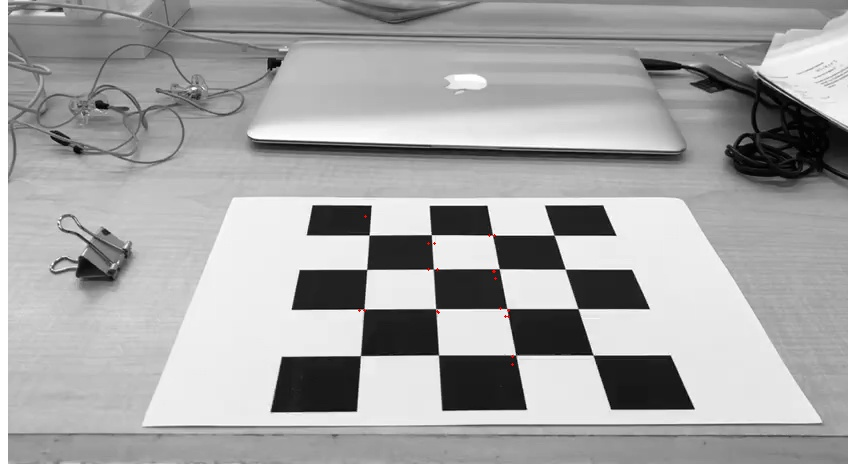
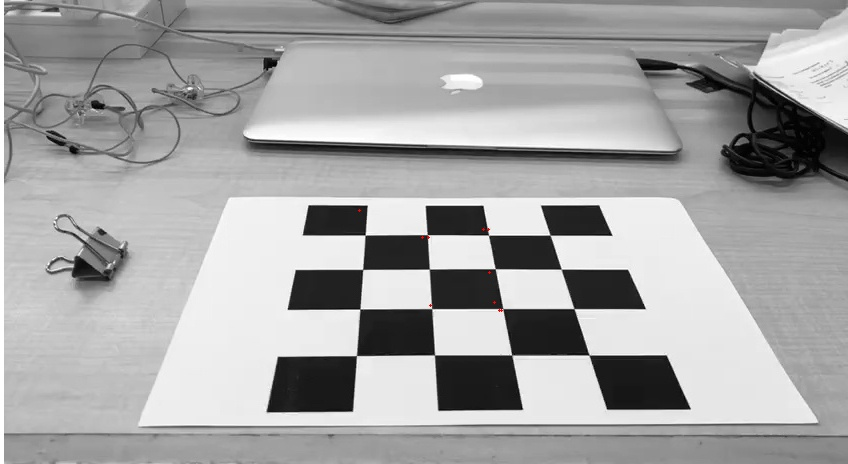
going to try to get lktracker to work

diff --git a/LKTracker.py b/LKTracker.py
@@ -8,10 +8,12 @@ from sampling import down_sample
 
 # cv2.cv.CV_CAP_PROP_FPS
 CV_CAP_PROP_FPS = 5
-NUM_FEATURES = 20
+NUM_FEATURES = 10
 DOWN_RES_LIMIT = 2*64
 WINDOW = 13
 WW = int(round(WINDOW/2))
+THRESHOLD = 0.01
+MAX_ITER = 20
 
 ## Given two images, track the features from one image to the next using LK Tracker and Pyramid
 def down_sample_feature_coords(feature):
@@ -122,21 +124,19 @@ def get_features(frame0):
     for i, x in enumerate(ex):
         y = ey[i]
         # this is correct. the Z matches for nonconv if nonconv just takes in y,x
-        # features.append((y-WW, x-WW))
+        features.append((y-WW, x-WW))
         gdZs.append(Zs[y][x])
-        # this is for conv
-        features.append((y, x))
     return features, gdZs
 
 
 def test_get_features():
-    frame = cv2.imread('test.jpg', 0)
-    features = get_features(frame)
+    frame = cv2.imread('test2.jpg', 0)
+    features, gdZs = get_features(frame)
     color_frame = cv2.cvtColor(frame, cv2.COLOR_GRAY2RGB)
     print(features)
     for y,x in features:
-        cv2.circle(color_frame, (x, y), 1, (0, 0, 255), -1)
-    cv2.imwrite('FEATURES200.jpg', color_frame)
+        cv2.circle(color_frame, (x, y), 13, (0, 0, 255), 1)
+    cv2.imwrite('FEATURES200shifted.jpg', color_frame)
 # test_get_features()
 
 
@@ -209,7 +209,8 @@ def LKTracker(frame, next_frame, frame_features, next_frame_features):
         # print(next_x_end)
         # print(next_y_start)
         # print(next_y_end)
-        next_feature_window = J[next_y_start: next_y_end, next_x_start: next_x_end]
+        # next_feature_window = J[next_y_start: next_y_end, next_x_start: next_x_end]
+        next_feature_window = J[y_start: y_end, x_start: x_end]
         # # skip the boundary cases
         if prev_feature_window.shape != (WINDOW,WINDOW) or next_feature_window.shape != (WINDOW,WINDOW): 
             result_features.append((next_y+0, next_x+0))
@@ -218,6 +219,14 @@ def LKTracker(frame, next_frame, frame_features, next_frame_features):
         window_diff = prev_feature_window - next_feature_window
         bx = sum(np.multiply(window_diff, gx[y_start: y_end, x_start: x_end]).ravel())
         by = sum(np.multiply(window_diff, gy[y_start: y_end, x_start: x_end]).ravel())
+
+        try:
+            Z_inv = np.linalg.inv(Z)
+        except:
+            print('error solving Zd = b')
+            ny, nx = 0, 0
+            result_features.append((ny, nx))
+            continue
 
         try:
             # solve for d
@@ -231,7 +240,7 @@ def LKTracker(frame, next_frame, frame_features, next_frame_features):
             dx, dy = d
             dx = int(round(dx))
             dy = int(round(dy))
-            ny, nx = (next_y-dy, next_x-dx)
+            ny, nx = (next_y+dy, next_x+dx)
             # print(d)
             if (dx,dy)!=(0,0):
                 print(dx,dy)
@@ -246,102 +255,25 @@ def LKTracker(frame, next_frame, frame_features, next_frame_features):
         result_features.append((ny, nx))
     return result_features, Zs
 
-#  Outputs the feature coords of the next frame, only small movments
-def LKTrackerConv(frame, next_frame, frame_features, next_frame_features):
-    frame = frame.astype('int16')
-    next_frame = next_frame.astype('int16')
-    rows, cols = frame.shape[:2]
-    # print(rows, cols)
-
-
-    # getting the derivatives
-    # Ix and Iy store the gx and gy (derivatives) values
-    # Ixx, Ixy and Iyy store the product of gx and gy
-    gx = copy.deepcopy(frame)
-    gy = copy.deepcopy(frame)
-    print('get gradient')
-    for row in range(rows-1):
-        for col in range(cols):
-            gx[row][col] = int(frame[row+1][col]) - int(frame[row][col])
-
-    for row in range(rows):
-        for col in range(cols-1):
-            gy[row][col] = int(frame[row][col+1]) - int(frame[row][col])
-
-    Ixx = np.multiply(gx, gx)
-    Ixy = np.multiply(gx, gy)
-    Iyy = np.multiply(gy, gy)
-
-    # get Zd = b
-    # using a window of all ones instead of gaussian for speed (and convenience)
-    window = np.ones((WINDOW, WINDOW))
-    # convolve gradients with window of interest
-    # these W matrices are used to get Z
-    Wxx = convolve2d(Ixx, window, mode='full')
-    Wxy = convolve2d(Ixy, window, mode='full')
-    Wyy = convolve2d(Iyy, window, mode='full')
-
-    # getting b
-    I = copy.deepcopy(frame)
-    J = copy.deepcopy(next_frame)
-    IminusJgx = convolve2d(np.multiply(I-J, gx), window, mode='full')
-    IminusJgy = convolve2d(np.multiply(I-J, gy), window, mode='full')
-
-    next_frame_features = []
-    Zs = np.zeros((NUM_FEATURES, 2, 2))
-    # feature is in the form (y,x)
-    # print(frame_features)
-    for i, prev_feature in enumerate(frame_features):
-        prev_y, prev_x = prev_feature
-        # if prev_y == 0 and prev_x == 0:
-        #     # skip (0,0) case. exception. screwed up somewhere.
-        #     larger_reso_next_frame_features.append((0, 0))
-        # TAKE NOTE OF NEGATIVE INDEXES
-        Z = np.matrix([[Wxx[prev_y][prev_x], Wxy[prev_y][prev_x]], [Wxy[prev_y][prev_x], Wyy[prev_y][prev_x]]])
-        Zs[i] = Z
-        bx = IminusJgx[prev_y][prev_x]
-        by = IminusJgy[prev_y][prev_x]
-        try:
-            # vals, vec = np.linalg.eig(Z)
-            # eigval = min(vals)
-            # solve for d
-            Z_inv = np.linalg.inv(Z)
-            b = np.matrix([[bx], [by]])
-            d = np.dot(Z_inv, b)
-            dx, dy = d
-            dx = int(round(dx))
-            dy = int(round(dy))
-            if (dx,dy)!=(0,0):
-                print(d)
-                print(dx,dy)
-        except:
-            print('error solving Zd = b')
-            dx, dy, e = 0, 0, 0
-
-        # Next frame features at higher res, but have not upsampled yet
-        # next frame features shld nt be negative
-        # set to (0,0) if negative
-        next_frame_features.append((prev_y-dy, prev_x-dx))
-    return next_frame_features, Zs
 
 def test_LKTracker():
     frame0 = cv2.imread('test/t1.jpeg', 0)
-    frame1 = cv2.imread('test/t4.jpeg', 0)
+    frame1 = cv2.imread('test/t2.jpeg', 0)
     
     # with open('features.pickle', 'rb') as pkl:
     #     features = pickle.load(pkl)
     features, z = get_features(frame0)
     print(features)
-    # print(z)
+    print(z[0])
     color_frame = cv2.cvtColor(frame0, cv2.COLOR_GRAY2RGB)
     for y,x in features:
         cv2.circle(color_frame, (x, y), 1, (0, 0, 255), -1)
     cv2.imwrite('im1features.jpg', color_frame)
     # with open('features.pickle', 'wb') as output:
     #     pickle.dump(features, output, pickle.HIGHEST_PROTOCOL)
-    next_features,z = LKTrackerConv(frame0, frame1, features, features)
+    next_features,z = LKTracker(frame0, frame1, features, features)
     print(next_features)
-    # print(z)
+    print(z[0])
     color_frame = cv2.cvtColor(frame1, cv2.COLOR_GRAY2RGB)
     for y,x in next_features:
         cv2.circle(color_frame, (x, y), 1, (0, 0, 255), -1)
